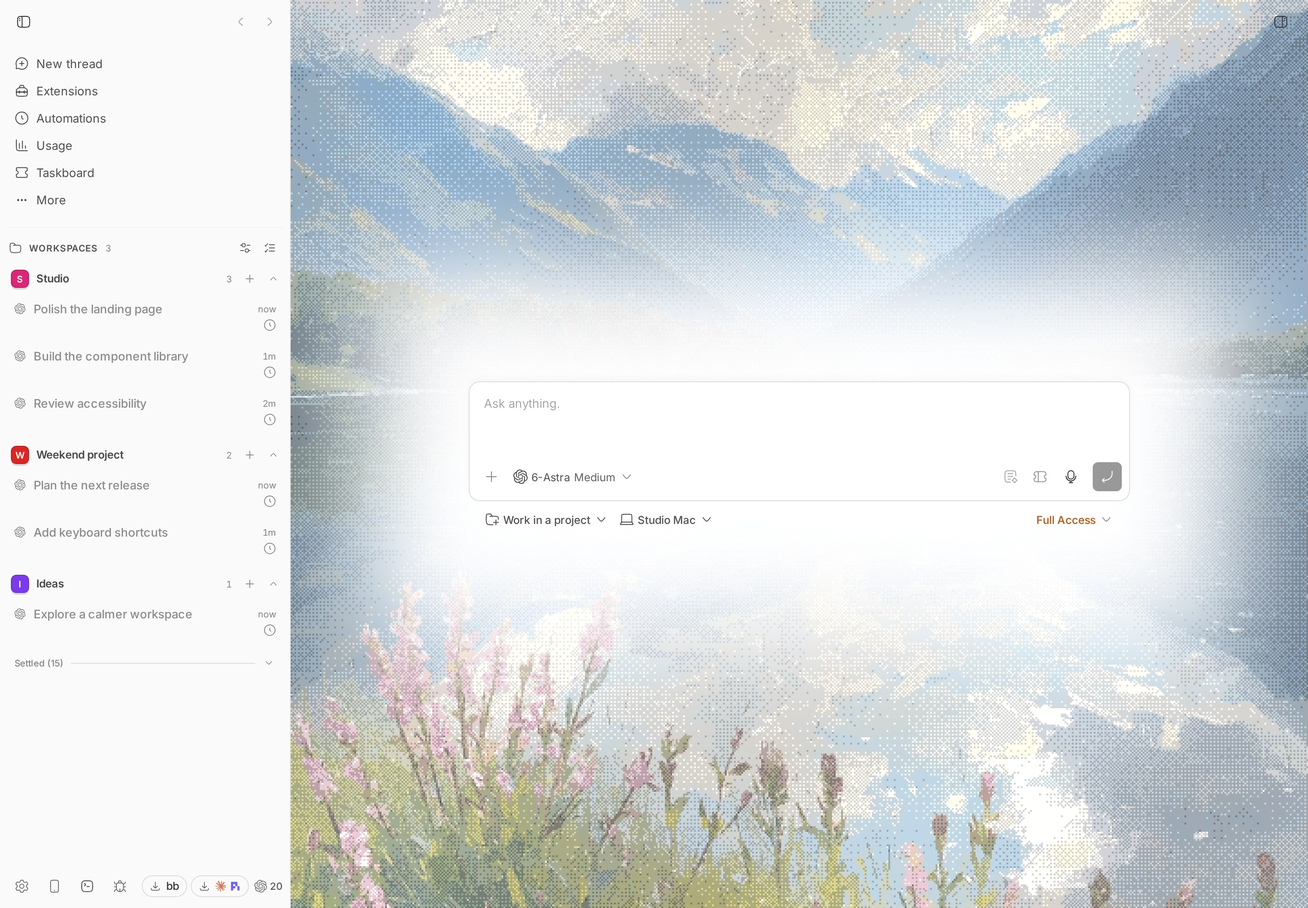
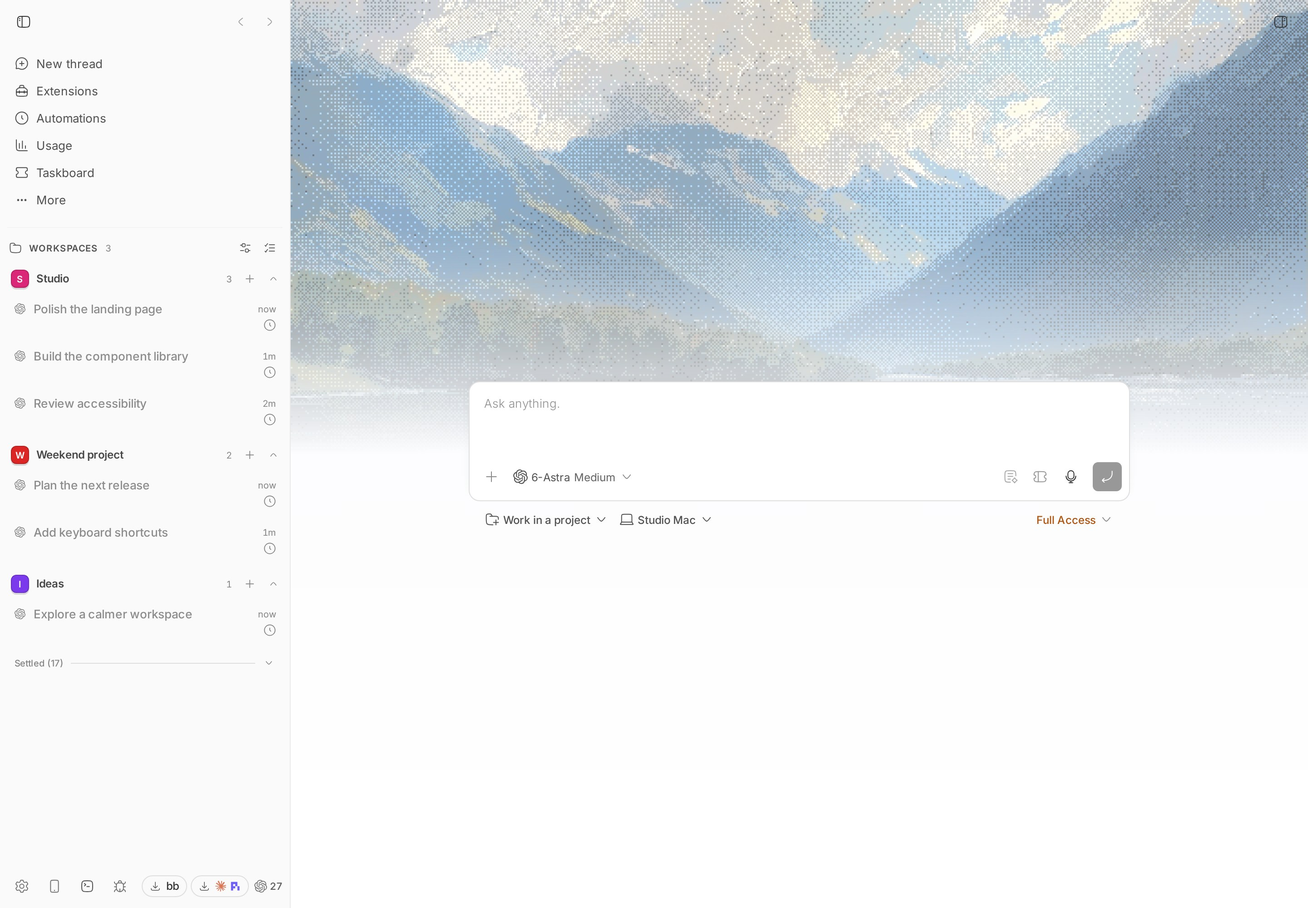
fix(aura): extend chat wallpaper and release v0.2.1

diff --git a/plugins/aura/lib/background.ts b/plugins/aura/lib/background.ts
@@ -24,6 +24,17 @@ export const READING_SURFACE = `
 [id="thread-detail-timeline-panel"] .thread-scrollbar > div > .mx-auto {
   background-color:var(--background); box-shadow:0 0 0 1px var(--border);
 }
+/* Continue the wallpaper beside the sticky composer instead of covering
+   the bottom of the whole pane with the host's full-width footer paint. */
+[id="thread-detail-timeline-panel"] [data-scroll-footer] > .bg-background:has(> .mx-auto) {
+  background-color:transparent;
+}
+[id="thread-detail-timeline-panel"] [data-scroll-footer] > .bg-background > .mx-auto {
+  background-color:var(--background);
+}
+[id="thread-detail-timeline-panel"] [data-scroll-footer] > .bg-background:has(> .mx-auto) > [data-overflow-fade] {
+  left:50%; right:auto; width:min(760px,100%); transform:translateX(-50%);
+}
 /* BB intentionally lets wide Markdown tables extend beyond the text column.
    Paint the whole scrollable table surface, including its overflow area. */
 [id="thread-detail-timeline-panel"] [data-markdown-preview] table,

diff --git a/plugins/aura/README.md b/plugins/aura/README.md
@@ -47,7 +47,7 @@ bb plugin reload aura
 Install the Git release after publication:
 
 ```sh
-bb plugin install git:https://github.com/MateoCerquetella/bb-plugins.git@^0.2.0 \
+bb plugin install git:https://github.com/MateoCerquetella/bb-plugins.git@^0.2.1 \
   --subdirectory plugins/aura --tag-prefix aura/
 ```
 
@@ -73,7 +73,8 @@ never image bytes.
 ## Reading and composing
 
 Existing conversations have an opaque, theme-colored reading column. Background
-images remain undimmed in the side margins, never directly behind message text.
+images remain undimmed in the side margins all the way to the bottom, including
+beside the composer, never directly behind message text.
 Wide Markdown tables get an opaque backing across their entire width, including
 where they extend beyond the normal reading column.
 Half-wallpaper mode applies only to the New thread screen.

diff --git a/plugins/aura/CHANGELOG.md b/plugins/aura/CHANGELOG.md
@@ -1,0 +1,10 @@
+# Changelog
+
+## 0.2.1
+
+- Extend chat wallpapers to the bottom of the pane, including beside the composer.
+- Keep half/full wallpaper selection in Aura settings; remove the composer toggle.
+- Fade half wallpapers out at the midpoint of New thread; keep chats full-height.
+- Restore the correct background when BB reuses panels during navigation.
+- Keep wide tables readable beyond the message column, with horizontal scrolling.
+- Preserve saved images, slots, dimming preference and scope across reloads.
